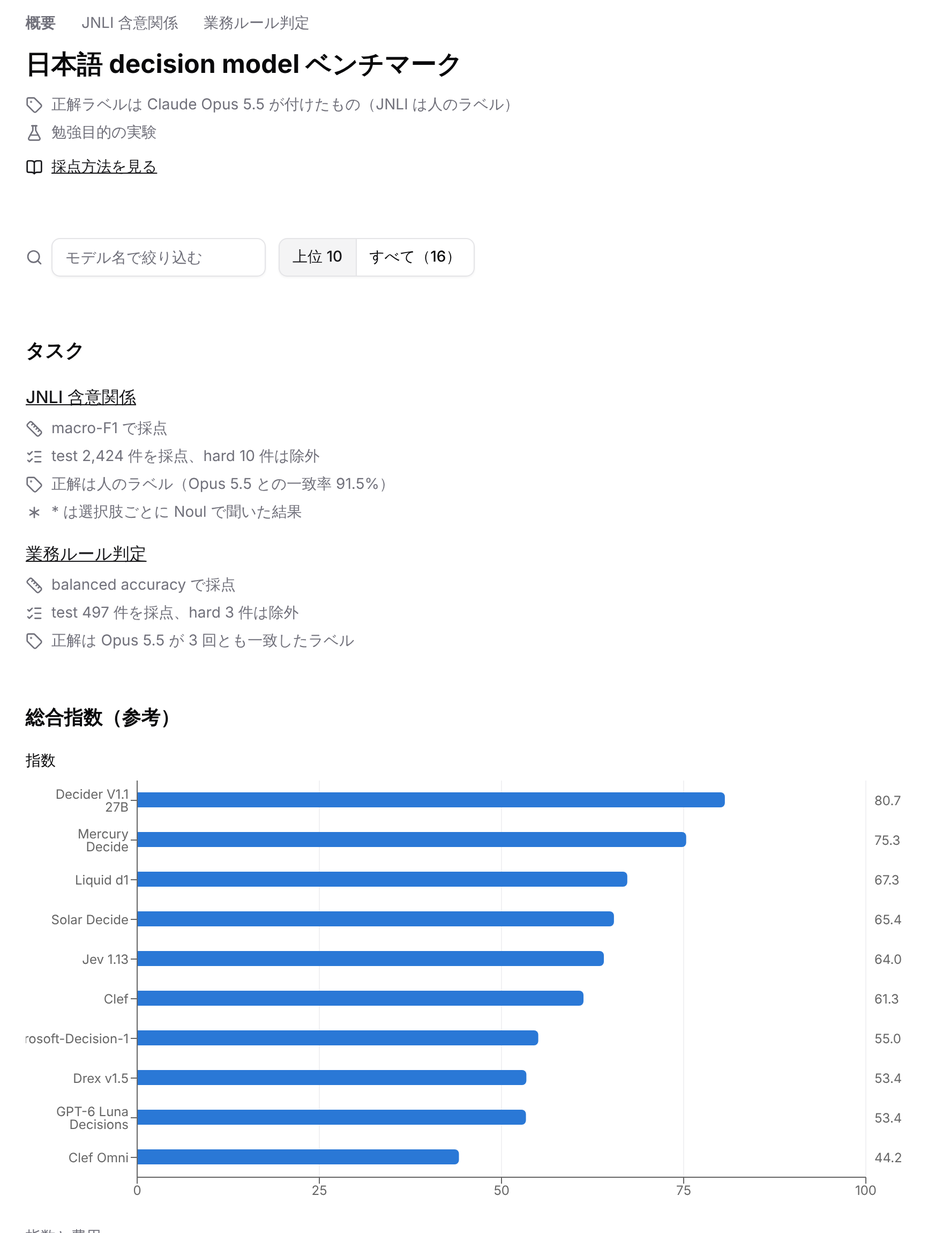
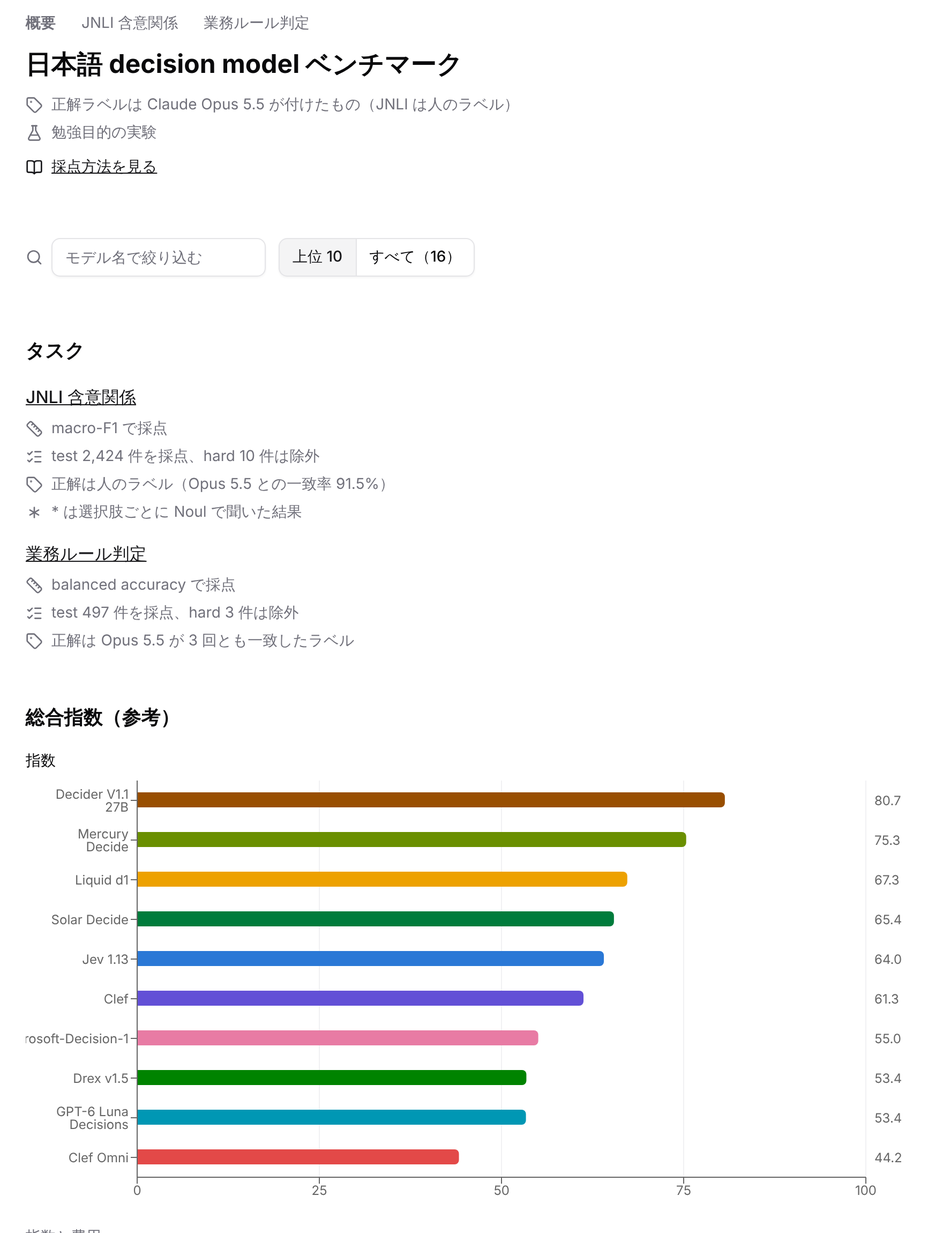
ja-decision-model-bench: 結果の転記をやめ、工夫した点と学びを中心に書き直す
Claude-Session: https://claude.ai/code/session_01Ww1hE468TqUT6Dj9ZuCMWL

Changed region(s): [[0.125, 0.6174, 0.7812, 0.7717], [0.125, 0.8026, 0.625, 0.957]]

diff --git a/articles/ja-decision-model-bench.md b/articles/ja-decision-model-bench.md
@@ -20,149 +20,118 @@ https://mst-ja-decision-bench.masseater.dev
 
 https://github.com/masseater/mst-ja-decision-bench
 
-あくまで勉強目的なので、厳密さよりも「一通り回して結果を眺める」ことを優先しています。結果は話半分で見てください。
-
-## 何を測ったか
-
-タスクは 2 つです。性質がまったく違うので、ページも表もタスクごとに分けています。
-
-| タスク | 形式 | 件数 | 正解 | 採点 |
-| --- | --- | ---: | --- | --- |
-| [JNLI 含意関係](https://mst-ja-decision-bench.masseater.dev/tasks/jnli) | 3 択 | 2,434 | 人手ラベル | macro-F1 |
-| [業務ルール判定](https://mst-ja-decision-bench.masseater.dev/tasks/rules) | 二値 | 500 | Opus 5.5 | balanced accuracy + 対の正解率 |
-
-### JNLI 含意関係
-
-JGLUE の JNLI v1.3 の valid 2,434 件をすべて使いました。2 文の関係を「含意・矛盾・中立」の 3 択で答えさせます。正解は人が付けたラベルです。
-
-最初は 200 件で始めたのですが、正解率 70% 付近だと 95% 信頼区間が ±6 ポイントほどあってモデルの差が見分けられなかったので、全件に増やしました。
-
-### 業務ルール判定
-
-日本語で decision model を使うなら、社内規程に照らして「この申請は OK か」を判定させるような使い方がありそうだと思い、自作しました。
-
-- 架空の会社 25 社分の社内規程(各 8〜12 条、目的・定義・例外・他条の参照を含む)を Claude Opus 5.5 で生成
-- 各規程に対して事例の対を 10 組作り、合計 500 件
-- 対は [DecideBench](https://github.com/choyiny/decidebench) に倣った最小差分ペアで、ほぼ同じ 2 つの事例の 1 か所(金額、日付、役職、手続きの順序、例外の条件)だけを変えて答えを逆にしている
-- 判定するモデルには規程全体と事例を渡して「適合しているか」を二値で答えさせる
-
-対の両方に正解した割合を「対の正解率」として出しています。話題語に反応しているだけだと片方しか当たらないので、条文をちゃんと読めているかが見えます。
-
-正解ラベルは Opus 5.5(effort high)を `claude -p` の構造化出力で 3 回独立に呼んで付け、3 回一致しなかったものや、作るときに意図した答えと多数決が食い違ったものは hard として別集計にしました。ラベル付けの費用は API 換算で 31.19 USD ですが、サブスクリプション経由なので実際の請求はありません。
-
-## 採点方法
-
-採点と見せ方は、既存の decision model ベンチに寄せました。
-
-| ベンチ | 取り入れた点 |
-| --- | --- |
-| [Jev Decision Index](https://huggingface.co/spaces/multimodalart/jev-decision-index) | 未対応・エラーは 0 点で分母に入れる、全モデル同じ問題文、NLI は macro-F1 |
-| [S1MB](https://github.com/hotchpotch/S1MB) | chance 補正した skill、二値は balanced accuracy |
-| [DecideBench](https://github.com/choyiny/decidebench) | 最小差分ペアと対の正解率、skill と速度の散布図 |
-| [JevBench](https://github.com/fstandhartinger/jevbench) | p50・p95 レイテンシ、ECE と Brier |
-| [Arize の比較](https://arize.com/blog/decision-model-benchmark/) | 較正誤差を別に示す |
-| [AIM-Decision](https://aimultiple.com/system-one) | 費用と速度は指数に混ぜず別の軸で示す |
-
-- skill は `(raw - chance) / (1 - chance)` で、ランダムに答えたときを 0 にした値です
-- 答えられた割合は coverage として別に表示します(今回は全モデル 100% でした)
-- 確率から ECE と Brier を出し、確信度と実際の正解率のグラフ(キャリブレーション曲線)も描いています
-- skill には 95% 信頼区間を付けています
-
-Choice(選択式)に対応したモデルは 1 リクエストで選択肢ごとの確率を返してくれます。一方で span-01 系のように Noul(はい / いいえ)しか受け付けないモデルには、選択肢ごとの Noul を 1 リクエストにまとめて送り、確率が最大のものを答えにしました。この方法はどの既存ベンチにも書かれていなかった独自のやり方なので、結果では `*` を付けて区別しています。
-
-## 実装
-
-モデルの呼び出しは当面 OpenRouter に一本化して、`@openrouter/sdk` の `systemOne.create` を使っています。ただしモデル id は `openrouter/typesafe/jev-1.13` のように provider を含む形にして、他のプロバイダを後から足せる構造にしました。decision model は OpenRouter 以外にもたくさんあり、今後も増えそうなので、モデルが数十になっても表やグラフが破綻しないことを意識しています(ソート可能な表、上位 10 件表示と「すべて表示」、モデル名での絞り込みなど)。
-
-応答は Effect の `PersistedCache` で 1 件 1 ファイルにキャッシュしていて、再実行しても成功した判定は呼び直しません。ダッシュボードは shadcn/ui の Table と Chart で作り、Cloudflare に置いています。
-
-## 結果
-
-2026-10-11 時点で、OpenRouter 上の decision model 16 件を全件実測しました。新規 14 モデルの実費は合計で約 $0.96 で、事前見積の $1.74 より安く済みました。
+結果はサイトを見てもらうとして、この記事では作るときに工夫したところと、やってみて学んだことを書きます。あくまで勉強目的なので、厳密さよりも「一通り回す」ことを優先しています。
 
 ![概要ページ](/images/ja-decision-model-bench/top.png)
 
-両タスクの skill の平均を「指数(参考)」として出しています。性質の違うタスクの平均なので、あくまで参考値です。
+## 何を測ったか
 
-| 順位 | モデル | 指数 | JNLI skill | 業務ルール skill | 全タスクの費用 |
-| ---: | --- | ---: | ---: | ---: | ---: |
-| 1 | Decider V1.1 27B | 80.7 | 85.4 | 75.9 | $0.0178 |
-| 2 | Mercury Decide | 75.3 | 84.5 | 66.2 | $0.0167 |
-| 3 | Liquid d1 | 67.3 | 83.2 | 51.3 | $0.0312 |
-| 4 | Solar Decide | 65.4 | 58.2 | 72.7 | $0.0843 |
-| 5 | Jev 1.13 | 64.0 | 73.1 | 55.0 | $0.0826 |
-| 6 | Clef | 61.3 | 72.0 | 50.5 | $0.2482 |
-| 7 | Microsoft-Decision-1 | 55.0 | 70.8 | 39.3 | $0.0308 |
-| 8 | Drex v1.5 | 53.4 | 69.2 | 37.6 | $0.0281 |
-| 9 | GPT-6 Luna Decisions | 53.4 | 55.1 | 51.6 | $0.1193 |
-| 10 | Clef Omni | 44.2 | 61.6 | 26.8 | $0.1746 |
-| 11 | Clef Flash | 42.4 | 55.6 | 29.2 | $0.0393 |
-| 12 | Tev1 4B Experimental | 42.0 | 68.4 | 15.5 | $0.0386 |
-| 13 | Kev 4B | 40.1 | 62.3 | 17.9 | $0.0295 |
-| 14 | Solar Decide Flash | 32.1 | 47.5 | 16.7 | $0.0843 |
-| 15 | span-01 | 11.6 | 10.9* | 12.2 | $0.0182 |
-| 15 | span-01 lite | 11.6 | 10.9* | 12.2 | $0.0000 |
+タスクは 2 つです。
 
-### JNLI 含意関係
+- **JNLI 含意関係**: JGLUE の JNLI valid 2,434 件。2 文の関係を「含意・矛盾・中立」の 3 択で答えさせる。正解は人手ラベル
+- **業務ルール判定**: 架空の会社 25 社分の社内規程と、それに対する事例 500 件。規程に適合しているかを二値で答えさせる。正解は Claude Opus 5.5 が付けたもの
 
-上位 3 つ(Decider V1.1 27B、Mercury Decide、Liquid d1)は正解率 90% 前後で、ほぼ横並びです。ちなみにラベル付けに使った Opus 5.5 と人の正解の一致率が 91.5% なので、上位モデルは JNLI に関しては Opus 5.5 並みに当てています。
+JNLI は「素直な日本語の分類」、業務ルール判定は「日本語で decision model を業務に使うならこういう使い方をしそう」という想定で選びました。
 
-| モデル | skill(95% 区間) | macro-F1 | 正解率 | ECE | Brier |
-| --- | ---: | ---: | ---: | ---: | ---: |
-| Decider V1.1 27B | 85.4(83.5〜87.3) | 90.0 | 91.5 | 0.019 | 0.131 |
-| Mercury Decide | 84.5(82.4〜86.3) | 89.3 | 90.7 | 0.029 | 0.144 |
-| Liquid d1 | 83.2(80.9〜85.0) | 88.4 | 90.1 | 0.023 | 0.142 |
-| Jev 1.13 | 73.1(70.5〜75.7) | 81.5 | 83.4 | 0.030 | 0.243 |
-| Clef | 72.0(69.4〜74.3) | 80.7 | 82.4 | 0.028 | 0.255 |
+## 工夫したところ
 
-全 16 モデルの表とグラフは本番ページにあります。
+### 既存ベンチのやり方に寄せる
 
-https://mst-ja-decision-bench.masseater.dev/tasks/jnli
+最初は自己流で採点していたのですが、途中で既存の decision model ベンチ(Jev Decision Index、S1MB、DecideBench、JevBench、Arize の比較、AIM-Decision)を読んで、なるべくそちらに寄せました。自分で考えるより、先にやっている人の判断に乗っかった方がだいたい正しいです。
 
-### 業務ルール判定
+取り入れたのは主に次の点です。
 
-こちらは差が大きく開きました。規程全体(8〜12 条)を読んで複数の条を組み合わせないと判断できない問題なので、JNLI では上位だった Liquid d1 も skill 51.3 まで落ちています。逆に Solar Decide は JNLI では 58.2 だったのに、業務ルールでは 72.7 で 2 位でした。
+- 問題文は全モデルで同じにし、モデルごとにプロンプトを調整しない
+- 未対応やエラーは 0 点として分母に入れ、答えられた割合は coverage として別に出す。失敗を分母から外すと「難しい問題だけ落とすモデル」が得をするため
+- ランダムに答えたときを 0 にした skill に揃える。3 択と二値では偶然当たる確率が違うので、生の正解率のままだと比べられない
+- NLI は正解率ではなく macro-F1 で採点する
+- 確率から ECE と Brier を出し、確信度と実際の正解率のグラフ(キャリブレーション曲線)を描く
+- 95% 信頼区間を付ける
+- 費用と速度はスコアに混ぜず、別の軸で見せる
 
-![業務ルール判定の skill](/images/ja-decision-model-bench/rules-skill.png)
+信頼区間を付けたのは実際に役に立ちました。最初は JNLI を 200 件だけ使っていたのですが、正解率 70% 付近だと区間が ±6 ポイントほどあって、モデルの差がほとんど見分けられませんでした。JNLI は人手ラベルがあって追加費用がかからないので、valid 全件に増やしています。
 
-| モデル | skill(95% 区間) | balanced accuracy | 対の正解率(95% 区間) | ECE | Brier |
-| --- | ---: | ---: | ---: | ---: | ---: |
-| Decider V1.1 27B | 75.9(70.3〜81.1) | 87.9 | 76.1(70.6〜81.3) | 0.077 | 0.195 |
-| Solar Decide | 72.7(67.1〜78.3) | 86.3 | 73.3(67.6〜78.9) | 0.072 | 0.218 |
-| Mercury Decide | 66.2(59.7〜72.4) | 83.1 | 69.2(63.3〜74.9) | 0.097 | 0.256 |
-| Jev 1.13 | 55.0(48.7〜61.5) | 77.5 | 55.5(49.6〜62.0) | 0.043 | 0.294 |
-| GPT-6 Luna Decisions | 51.6(45.6〜58.3) | 75.8 | 52.2(46.4〜58.9) | 0.177 | 0.420 |
+### 業務ルール判定は最小差分ペアで作る
 
-https://mst-ja-decision-bench.masseater.dev/tasks/rules
+業務ルール判定は自作のデータなので、一番手を入れたところです。
 
-ただし Solar Decide は遅いです。業務ルール判定の p50 レイテンシが約 18.7 秒(p95 は約 29 秒)で、ほかのモデルが 200〜500 ms 程度なのに対して桁が違います。skill × レイテンシの散布図だと 1 つだけ右上に飛んでいるのが 2 番の Solar Decide です。
+最初の版は「条文 1 つと事例 1 つ」を渡して判定させていたのですが、これだと条文を読まなくても話題語だけで当たってしまいます。そこで次のように作り直しました。
 
-![skill × p50 レイテンシ](/images/ja-decision-model-bench/rules-latency.png)
+- テーマごとに、目的・定義・例外・他条の参照を含む 8〜12 条の規程を作り、毎回その規程全体を読ませる
+- 事例は 2 つ以上の条を組み合わせないと判断できないものにする
+- [DecideBench](https://github.com/choyiny/decidebench) に倣って、ほぼ同じ 2 つの事例の 1 か所(金額、日付、役職、手続きの順序、例外の条件)だけを変えて答えを逆にした「対」にする
+- 対の両方に正解した割合を「対の正解率」として出す
 
-### span-01 系はほぼランダム
+対の正解率が効いていて、話題語に反応しているだけのモデルは片方しか当たらないので、ここが極端に低くなります。実際、span-01 系は対の正解率が 13.8% で、規程をほとんど読めていないことがはっきり出ました。
 
-span-01 と span-01 lite は両タスクとも skill 11〜12 で最下位でした。業務ルール判定の対の正解率は 13.8% で、片方だけ当たって片方は外す、つまり条文をほとんど読めていない状態です。
+ほかにも細かい点として、
 
-キャリブレーション曲線を見ると、確信度が上がっても正解率はほとんど上がらず、すべての点が対角線より下にあります。自信満々で外しているということです。
+- 問いは「適合しているか」の肯定形に揃えた。Arize の比較で、否定形の問いが判定の逆転を招いていたため
+- Clef 系は入力の先頭約 2,000 トークンしか読まないので、規程は 1,500 字以内に収めた
+- 2 回目の生成では 1 回目の問いを渡して、同じ論点を繰り返さないようにした
 
-![span-01 lite の業務ルール判定のキャリブレーション曲線](/images/ja-decision-model-bench/rules-span-01-lite-calibration.png)
+あたりも気をつけています。
 
-さらに、有料の span-01 と無料の span-01 lite は全 2,934 問で答えも確率も完全に一致しました。少なくとも OpenRouter 経由で日本語を投げた範囲では、同じものが返ってきているように見えます。
+### 正解ラベルは 3 回聞いて、割れたものを分ける
 
-## やってみて分かったこと・ハマったところ
+業務ルール判定の正解は Opus 5.5(effort high)に付けさせています。1 問ごとに `claude -p` を構造化出力で 3 回独立に呼び、3 回とも一致したものだけを採点に使い、割れたものは hard として別集計にしました。
 
-- **OpenRouter の `:free` モデルはデータポリシーで弾かれることがある**。mercury-decide:free はアカウントのデータポリシー設定で拒否されたので、有料版を使いました。有料版でも全件で $0.0167 なので誤差です。
-- **Clef 系は入力の先頭約 2,000 トークンしか読まない**。規程全体を渡すタスクなので、規程は 1,500 字以内に収めました。
-- **否定形の問いは避ける**。Arize の比較で否定形の問いが判定の逆転を招いていたので、問いは「適合しているか」の肯定形に揃えました。
-- **LLM に 3 回ラベルを付けさせても意外と割れない**。最初の版では Opus 5.5 の票が割れた問題が 500 件中 1 件しかなく、hard の仕組みが機能していませんでした。そこで「作るときに意図した答えと多数決が食い違う」問題も hard に入れることにしました。
-- **見積は実測トークン数から出す**。新しいモデルを回す前に、実測済みモデルのトークン数と単価から見積を出していました。新規 14 モデルで見積 $1.74 に対して実費 $0.96 と、安い側に外れたので安心して回せました。
-- **キャッシュは偉い**。応答を 1 件 1 ファイルでキャッシュしているので、途中で落ちても続きから回せます。ただ、キャッシュは 6 万ファイルを超えたので、リポジトリに入れるには少し重くなってきました。
-- **decision model 自体を lint にも使ってみた**。jev-lint という decision model でコード規約を判定するツールを CI に入れているのですが、span-01 lite が純粋関数を「UI 状態の扱いの規約違反」と誤検知したので、今回 1 位だった Decider に判定を切り替えました。ベンチの結果と体感が一致していて面白かったです。
+ただ、やってみると 500 件中で票が割れたのは 1 件だけで、hard の仕組みがほとんど機能しませんでした。LLM に同じ問題を何度聞いても、だいたい同じ答えが返ってきます。そこで「作るときに意図した答え(対の a が適合、b が不適合)と多数決が食い違う」問題も hard に入れるようにしました。
+
+また、JNLI では Opus 5.5 にも 200 件だけラベルを付けさせて、人の正解との一致率(91.5%)を出しています。業務ルール判定のスコアは「Opus 5.5 との一致率」でしかないので、LLM ラベルがどのくらい外れるかの目安として載せています。
+
+### Noul しか受け付けないモデルにも 3 択を解かせる
+
+decision model には、選択式(Choice)に対応していて選択肢ごとの確率を返してくれるモデルと、span-01 系のように「はい / いいえ」(Noul)しか受け付けないモデルがあります。
+
+Decision Index のルールだと未対応の形式は 0 点ですが、それだと span-01 系は JNLI で何も測れません。そこで、選択肢ごとに「次の答えは正しいですか: 含意」のような Noul の問いを作り、1 リクエストにまとめて送って「はい」の確率が最大の選択肢を答えにしました。1 件 1 呼び出しなので費用も他のモデルと揃います。
+
+この方法はどの既存ベンチにも書かれていなかった独自のやり方なので、結果では `*` を付けて区別しています。
+
+### モデルが数十に増えても成り立つようにする
+
+decision model は OpenRouter 上の十数個がすべてではなく、他のプロバイダにもあり、今後も増えそうです。なので最初から「モデルが数十になっても破綻しない」ことを意識しました。
+
+- モデルの呼び出しは当面 OpenRouter の SDK(`@openrouter/sdk` の `systemOne.create`)に一本化しつつ、モデルは `{ provider: "openrouter", id: "typesafe/jev-1.13" }` のように provider を含めて持ち、他のプロバイダを後から足せるようにした
+- 応答は Effect の `PersistedCache` で 1 件 1 ファイルにキャッシュし、成功した判定は再実行しても呼び直さない。モデルを 1 つ足しても、そのモデルの分だけ呼べば済む
+- 表はソートでき、既定は上位 10 件で「すべて表示」とモデル名での絞り込みを付けた。散布図はラベルの重なりを避けてホバーで名前を出し、グラフはタスクごとに別ページにして縦に積んだ
+
+性質の違うタスクを 1 つの表に並べると平均値だけが独り歩きするので、タスクごとにページを分けて、両タスクの平均は「参考」として概要ページに置くだけにしています。
+
+## やってみて学んだこと
+
+### タスクによって順位はかなり変わる
+
+JNLI のような素直な分類では上位のモデルがほぼ横並びなのに、規程を読ませる業務ルール判定では差が大きく開きました。JNLI で上位のモデルが業務ルールでは中位に落ちたり、逆に JNLI では振るわなかったモデルが業務ルールでは上位に来たりもします。1 つのタスクの結果だけで「このモデルが強い」とは言えないので、自分の用途に近いタスクで測るのが大事だなと思いました。
+
+### 確信度は当てにならないことがある
+
+キャリブレーション曲線を描いてみると、確信度が上がっても正解率がほとんど上がらないモデルがありました。確率を返してくれるからといって、そのまま閾値に使ってよいとは限りません。正解率だけでなく、確信度と実際の正解率のずれも見ておくべきだと分かりました。
+
+### 有料版と無料版が同じものを返していた
+
+有料の span-01 と無料の span-01 lite は、全 2,934 問で答えも確率も完全に一致しました。少なくとも OpenRouter 経由で日本語を投げた範囲では、同じものが返ってきているように見えます。並べて測ってみないと気づかないことでした。
+
+### 費用は実測から見積もり、上限をかけておく
+
+新しいモデルを回す前に、実測済みのモデルのトークン数と単価から見積を出してから回すようにしていました。OpenRouter 上の新規 14 モデルを全件回したときは、見積 $1.74 に対して実費は約 $0.96 でした。全モデル合わせても 1 周 1 ドル前後なので、decision model のベンチは安く回せます。
+
+とはいえ AI エージェントに回させていると何かの拍子に呼びすぎるのが怖いので、OpenRouter の API キーには月の利用上限をかけています。Opus 5.5 でのラベル付けは API 換算だと 30 ドルを超えますが、サブスクリプション経由の `claude -p` で動かしたので実際の請求はありません。
+
+ハマったところとしては、OpenRouter の `:free` 付きのモデルがアカウントのデータポリシー設定で拒否されることがありました。有料版でも全件で数セントなので、有料版を使っています。
+
+### 遅いモデルは本当に遅い
+
+ほとんどのモデルは 1 判定 200〜500 ms 程度なのですが、Solar Decide は業務ルール判定で p50 が約 18.7 秒、p95 が約 29 秒と桁違いでした。精度は上位なのですが、500 件回すだけでも待たされます。速度を別の軸で見せておいてよかったところです。
+
+### decision model を lint にも使ってみた
+
+このリポジトリでは、jev-lint という decision model でコード規約を判定するツールを CI に入れています。最初は無料の span-01 lite で判定していたのですが、UI 状態を持たない純粋関数を「UI 状態の扱いの規約違反」と誤検知して CI が落ちました。
+
+span-01 lite に違反例と違反でない例を判定させてみると、両者をほとんど区別できていませんでした。そこで、そのルールの判定だけを今回のベンチで 1 位だった Decider に切り替えています。lint の設定を緩めるのではなく判定するモデルを替えて直せたので、ベンチの結果が早速役に立ちました。
 
 ## おわりに
 
-勉強目的のお試しですが、日本語で 16 モデルを一通り並べてみると、JNLI のような素直な分類では上位がほぼ横並びなのに対し、規程を読ませる業務寄りのタスクではかなり差が付くことが分かりました。また、全モデル合わせても 1 回あたり約 $1 で回せるので、手元のユースケースに近いタスクを作って測ってみるのは割とおすすめです。
+勉強目的のお試しでしたが、作ってみると「データの作り方」と「採点のルール」で結果の意味がかなり変わることを実感しました。特に、最小差分ペアと coverage の扱いは、既存ベンチを読まなければ思いつかなかったと思います。
 
-なお、業務ルール判定の正解は Opus 5.5 が付けたものなので、スコアは「Opus 5.5 との一致率」であって本当の正しさではありません。その点はご注意ください。
-
-今後は OpenRouter 以外のプロバイダの decision model も足していきたいと思っています。
+decision model は 1 判定あたりの費用が非常に安いので、手元のユースケースに近いタスクを作って測ってみるのはおすすめです。今後は OpenRouter 以外のプロバイダの decision model も足していきたいと思っています。
